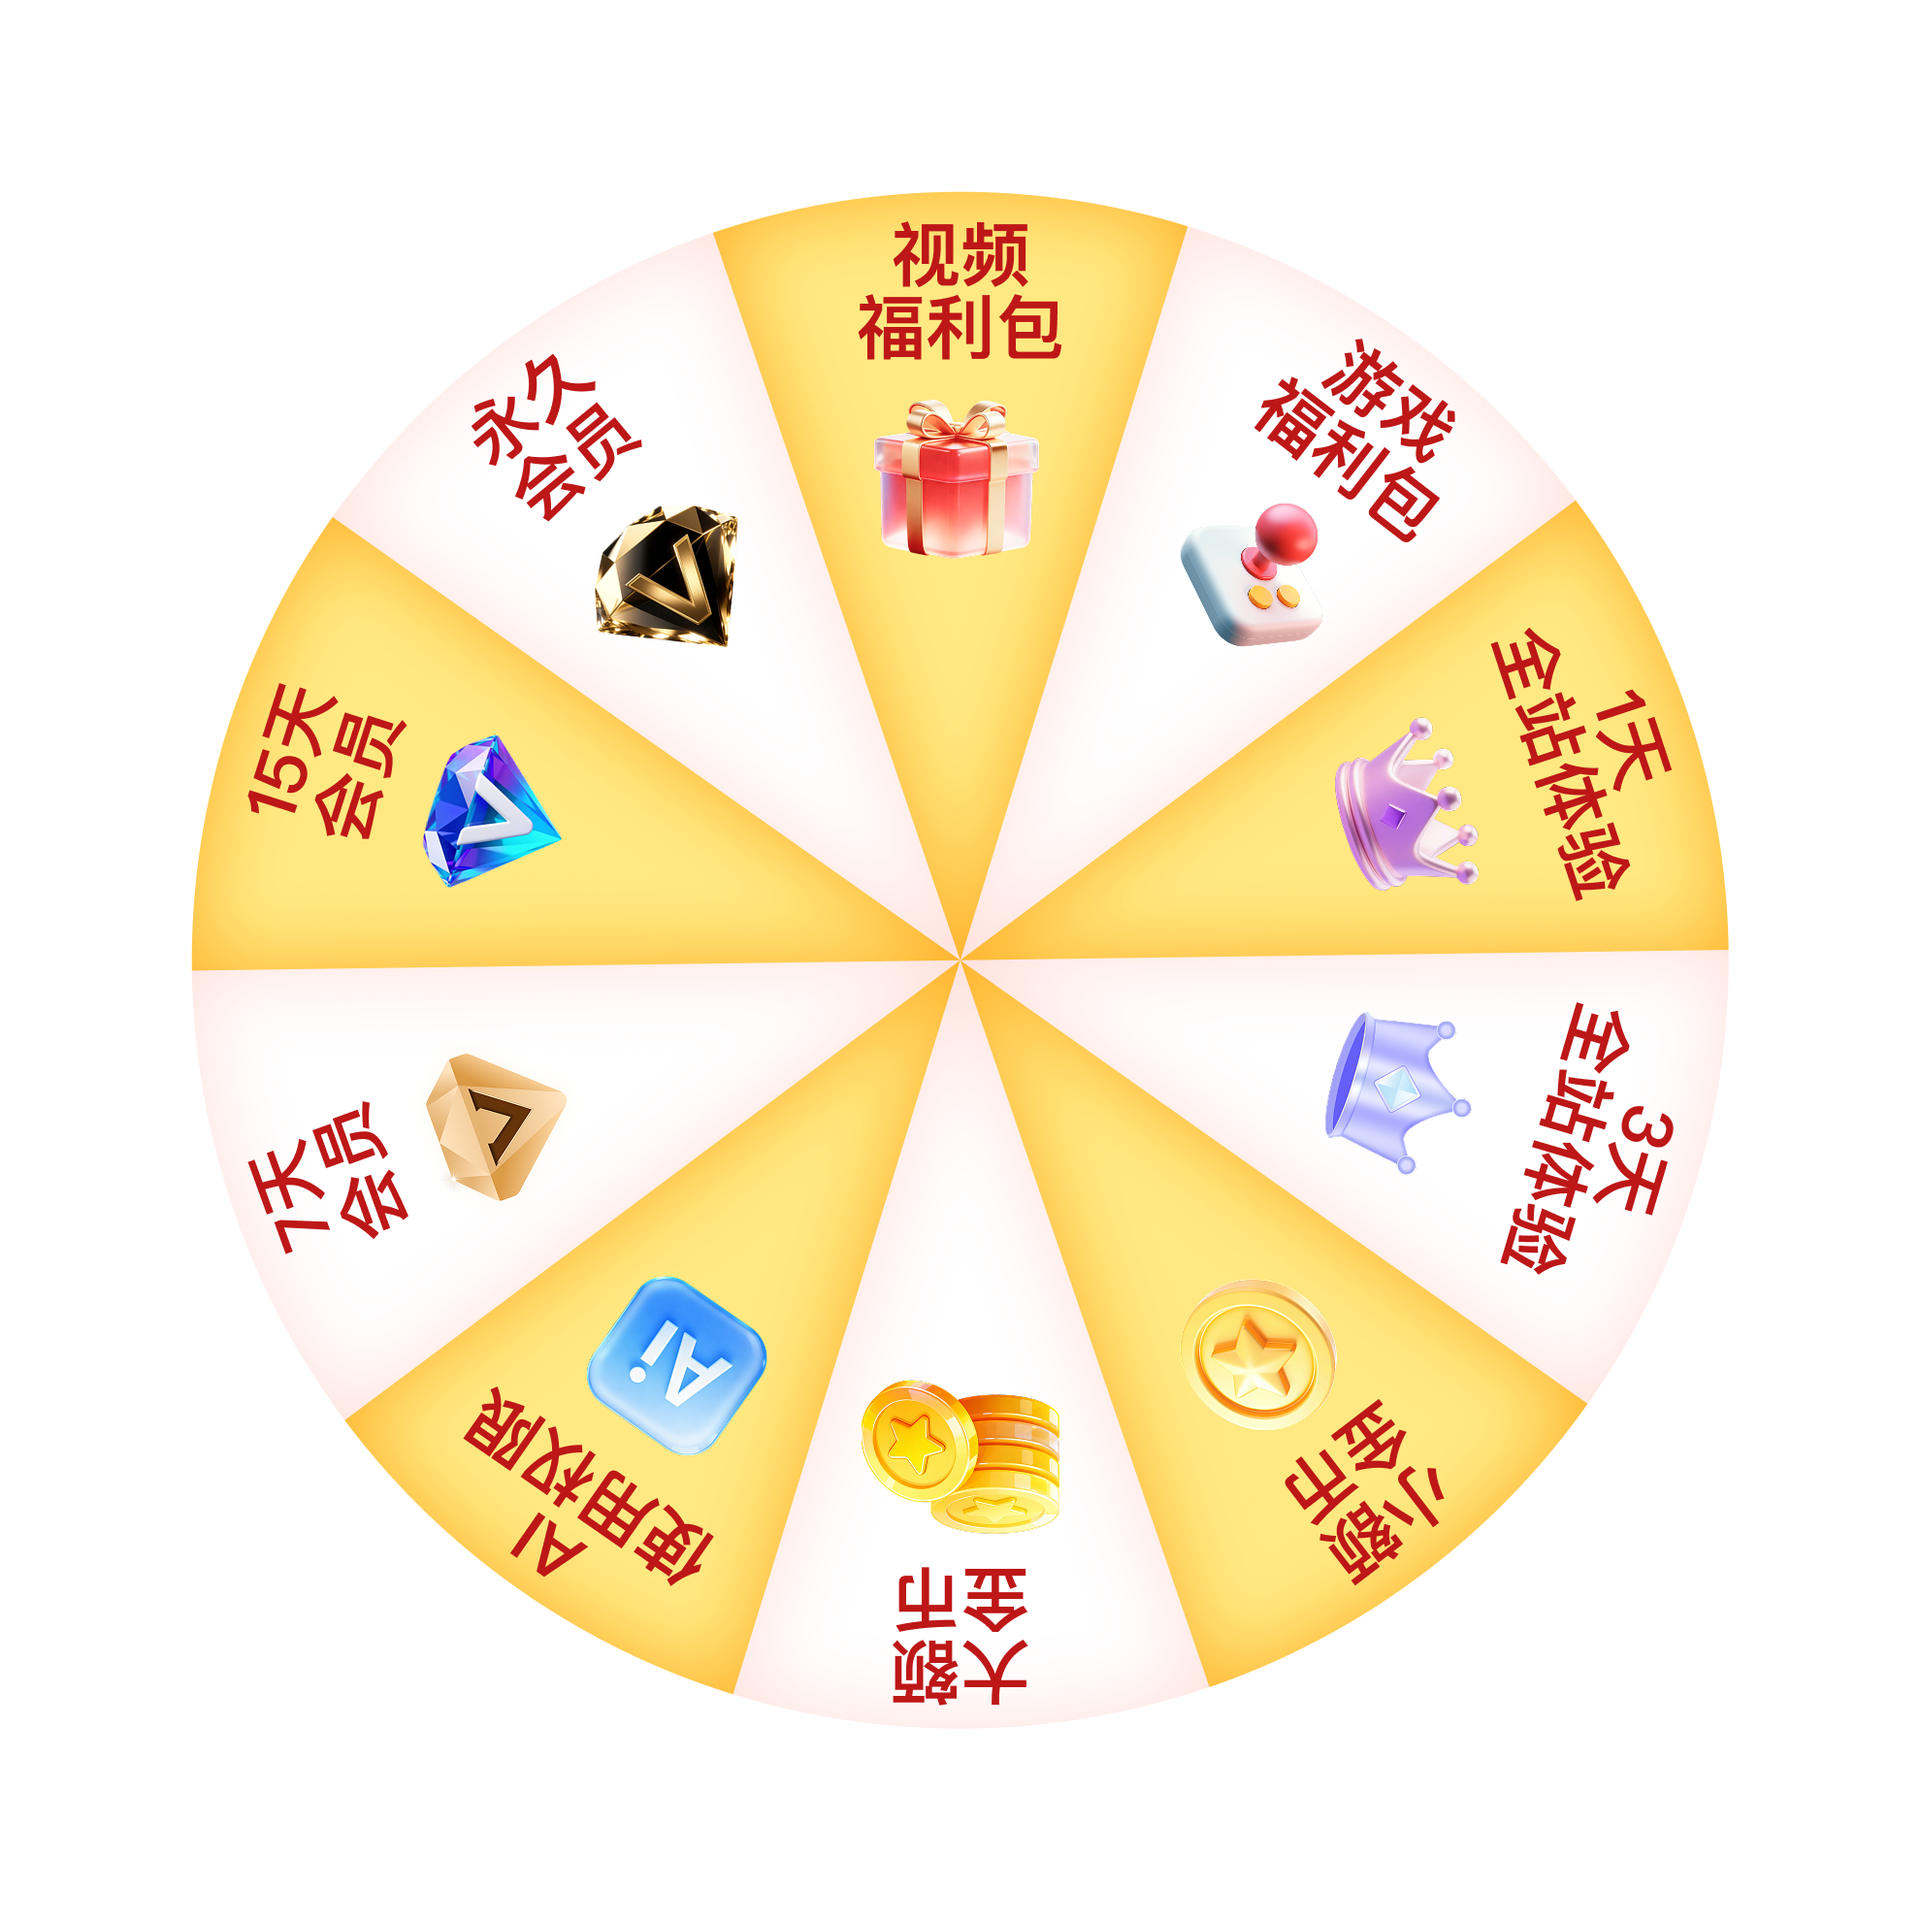
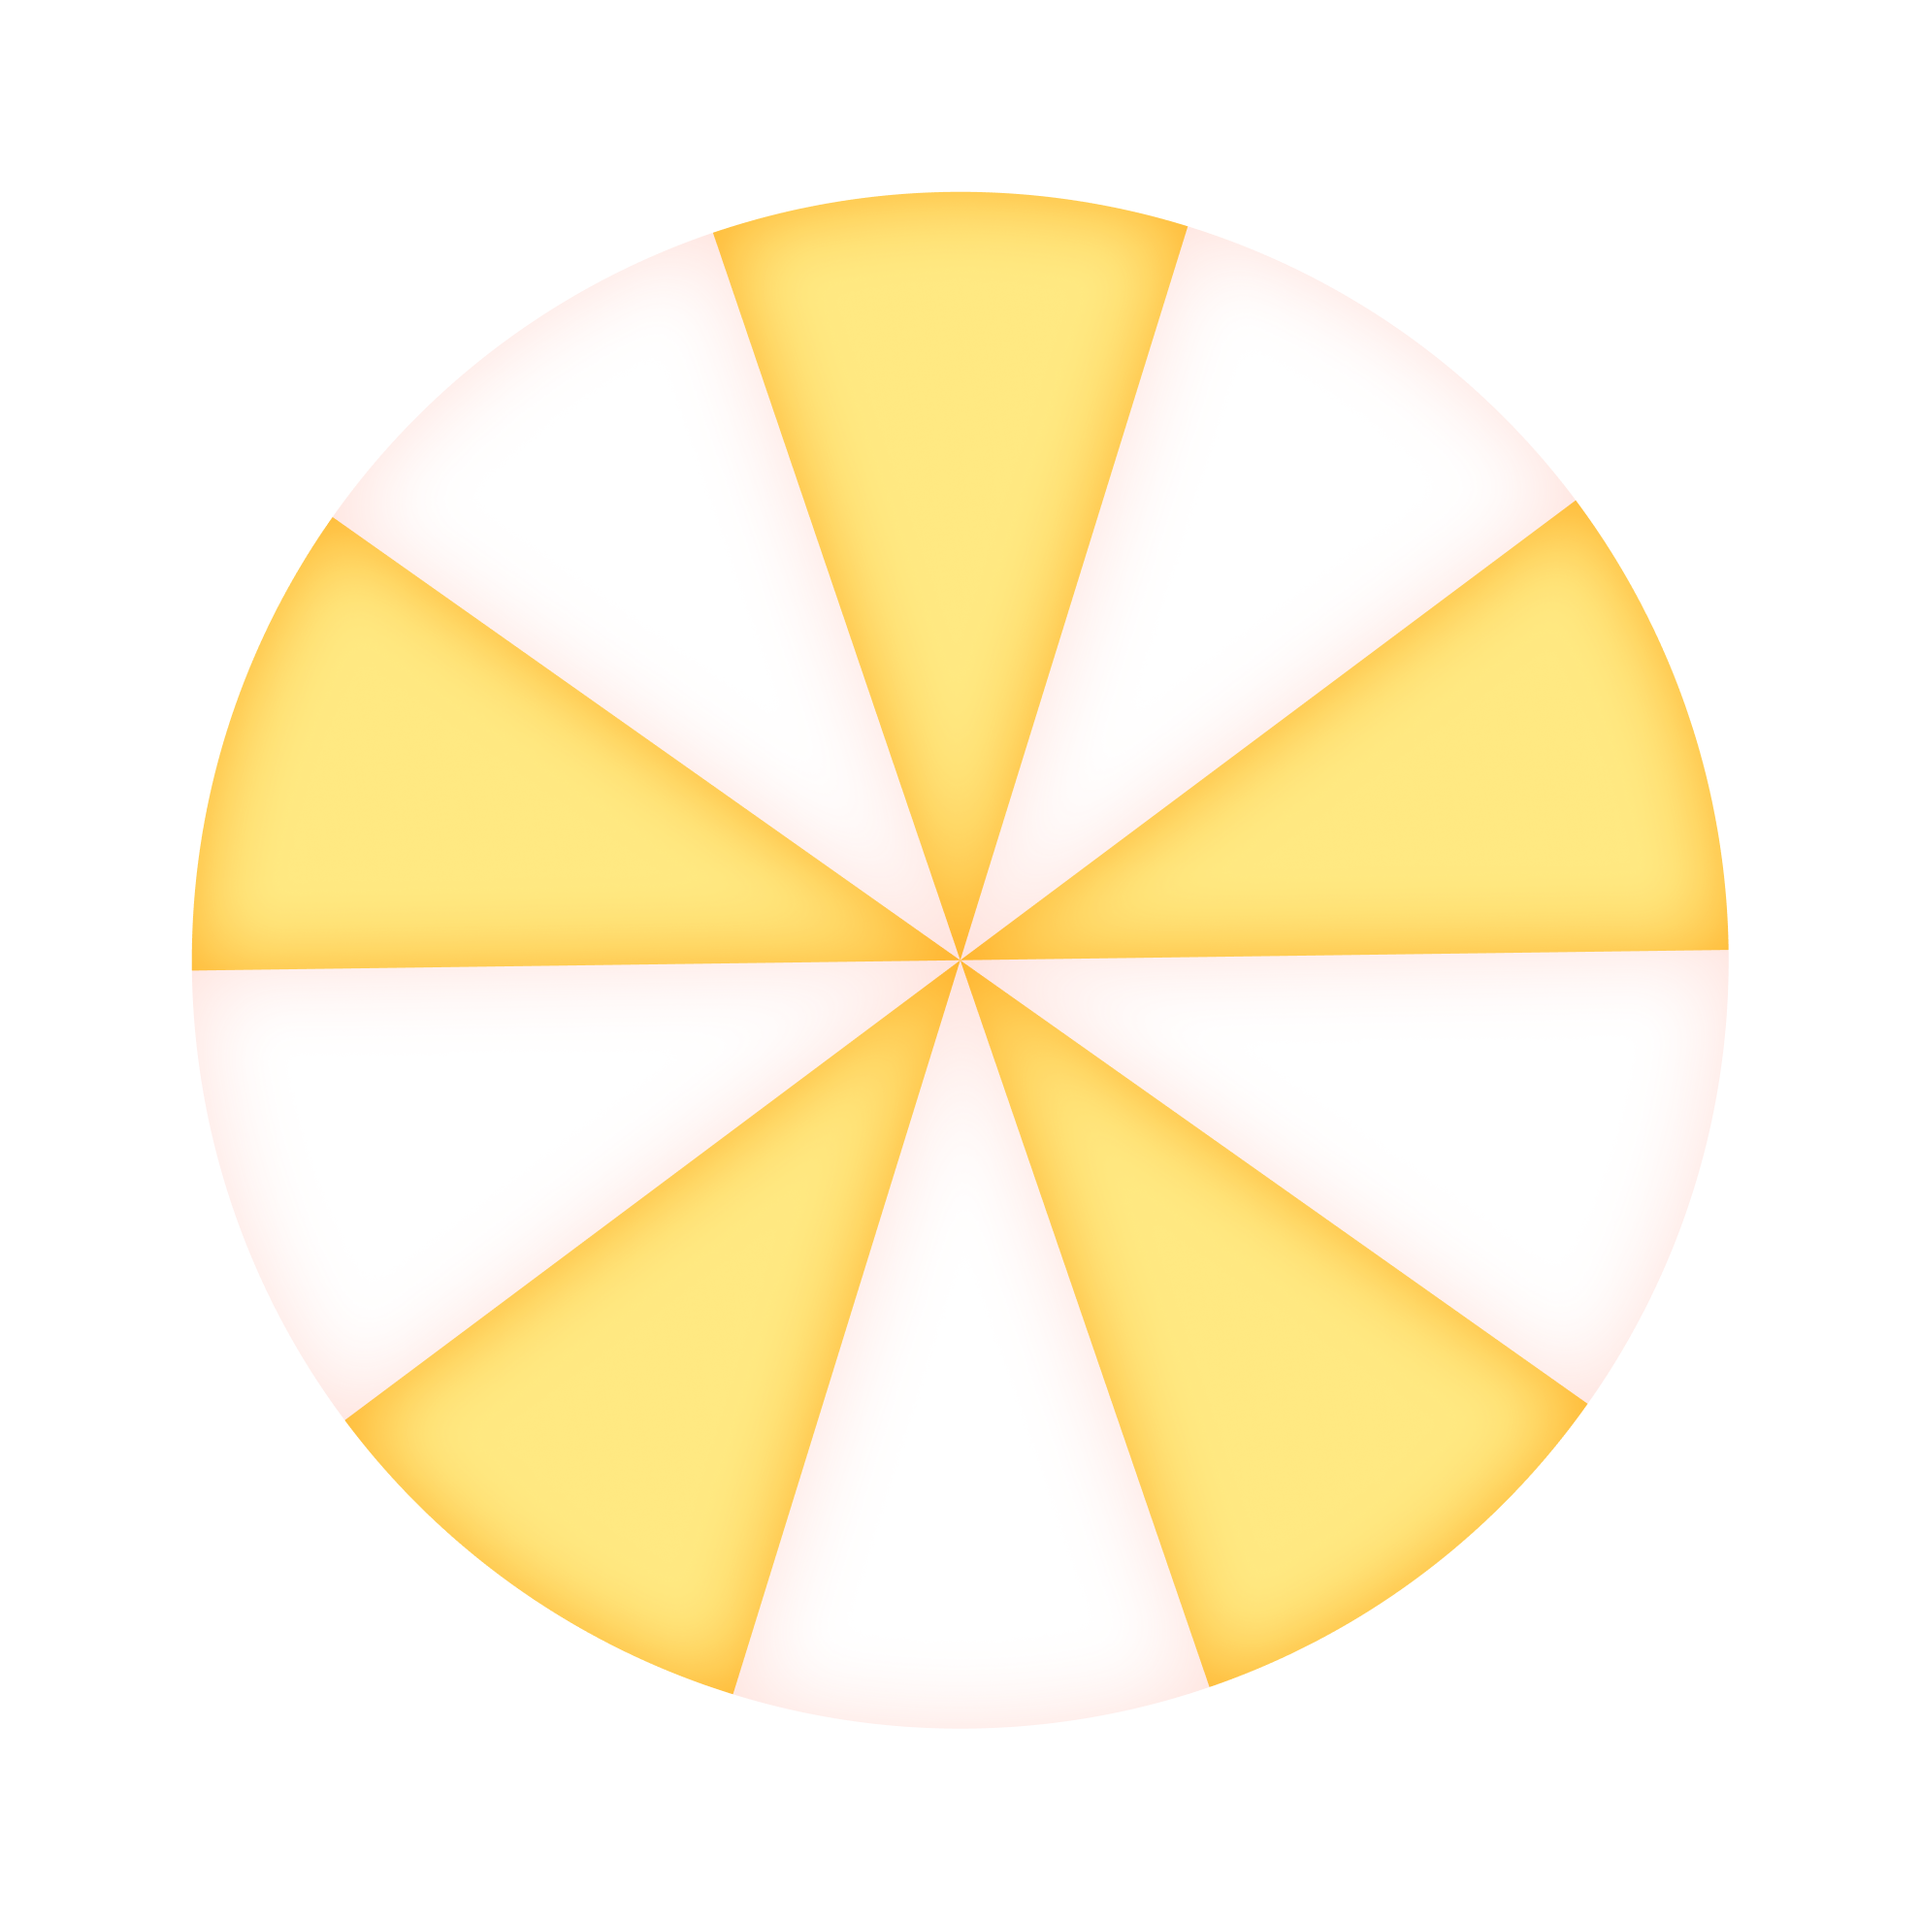
抽奖奖品布局优化

diff --git a/src/pages/checkin.vue b/src/pages/checkin.vue
@@ -176,13 +176,13 @@ async function fetchDrawConf() {
       my_points: number
       points_per_draw: number
     }
-    
+
     // 更新抽奖机会次数、积分、每次抽奖消耗的积分和奖品列表
     state.drawChances = data.my_chances || 0
     state.drawPoints = data.my_points || 0
     state.drawPointsPerDraw = data.points_per_draw || 50
     state.lotteryItems = data.items || []
-    
+
     console.log('抽奖配置:', data)
   } catch (error) {
     console.error('获取抽奖配置失败:', error)
@@ -228,17 +228,17 @@ async function handleLottery(type: 'chance' | 'points') {
       // 积分抽奖
       res = await __.$Api.TaskLottery.drawByPoints({})
     }
-    
+
     const data = res?.data as {
       prize: Record<string, any>
       msg: string
     }
-    
+
     // 根据返回的奖品信息显示对应的奖品
     // 暂时使用随机奖品，后续根据 prize 数据结构调整
     prizeKey.value = pickRandomPrize()
     showPrize.value = true
-    
+
     console.log('抽奖结果:', data)
   } catch (error) {
     console.error('抽奖失败:', error)
@@ -351,13 +351,13 @@ const prizePositions = computed(() => {
   const items = lotteryItems.value
   const count = items.length
   const radius = 130 // 距离中心的半径
-  
+
   return items.map((item, index) => {
     const angle = (index / count) * 360 - 90 // 从顶部开始
     const rad = (angle * Math.PI) / 180
     const x = Math.cos(rad) * radius
     const y = Math.sin(rad) * radius
-    
+
     return {
       ...item,
       x,
@@ -391,17 +391,14 @@ function getDayIcon(day: CheckinDay) {
           <div class="checkin-panel-line">明日签到可得：{{ state.tomorrowRewardText }}</div>
           <div class="checkin-panel-sub">
             <span>已连续签到：{{ state.signedDays }}天</span>
-            <button class="checkin-panel-link" type="button" @click="() => { showSignRecord = true; fetchSignRecords() }">签到记录</button>
+            <button class="checkin-panel-link" type="button"
+              @click="() => { showSignRecord = true; fetchSignRecords() }">签到记录</button>
           </div>
         </div>
 
         <button class="checkin-panel-btn" type="button">
-          <img
-            class="checkin-panel-btn-img"
-            :src="state.hasSignedToday ? img.btnSigned : img.btnSign"
-            alt="签到"
-            @click="onSignClick"
-          />
+          <img class="checkin-panel-btn-img" :src="state.hasSignedToday ? img.btnSigned : img.btnSign" alt="签到"
+            @click="onSignClick" />
         </button>
       </div>
       <!-- 30天日历（只做上半部分：到这里为止） -->
@@ -427,7 +424,8 @@ function getDayIcon(day: CheckinDay) {
         <div class="lottery-content-top">
           <div class="lottery-head">
             <div class="lottery-title">抽奖得好礼</div>
-            <button class="lottery-link" type="button" @click="() => { showLotteryRecord = true; fetchLotteryRecords() }">抽奖记录</button>
+            <button class="lottery-link" type="button"
+              @click="() => { showLotteryRecord = true; fetchLotteryRecords() }">抽奖记录</button>
           </div>
           <div class="lottery-meta">
             <div class="lottery-meta-item">我的抽奖机会：{{ state.drawChances }}</div>
@@ -438,18 +436,15 @@ function getDayIcon(day: CheckinDay) {
         <div class="wheel">
           <div class="wheel-stack">
             <div class="wheel-prizes">
-              <div
-                v-for="prize in prizePositions"
-                :key="prize.id"
-                class="wheel-prize-item"
-                :style="{
-                  transform: `translate(${prize.x}px, ${prize.y}px) rotate(${prize.angle + 90}deg)`
-                }"
-              >
-                <div class="wheel-prize-icon">
-                  <img v-if="prize.icon" :src="prize.icon" :alt="prize.title" />
-                </div>
+              <div v-for="prize in prizePositions" :key="prize.id" class="wheel-prize-item" :style="{
+                transform: `rotate(${prize.angle + 90}deg)`
+              }">
+
                 <div class="wheel-prize-title">{{ prize.title }}</div>
+                <!--  -->
+                <div class="wheel-prize-icon">
+                  <img v-if="prize.icon" :src="prize.icon" />
+                </div>
               </div>
             </div>
             <div class="wheel-disk">
@@ -465,7 +460,8 @@ function getDayIcon(day: CheckinDay) {
     </div>
     <div class="lottery-actions">
       <button class="lottery-btn lottery-btn-yellow" type="button" @click="onLotteryClick('chance')">抽奖机会</button>
-      <button class="lottery-btn lottery-btn-blue" type="button" @click="onLotteryClick('points')">{{ state.drawPointsPerDraw }}积分抽奖</button>
+      <button class="lottery-btn lottery-btn-blue" type="button" @click="onLotteryClick('points')">{{
+        state.drawPointsPerDraw }}积分抽奖</button>
     </div>
   </div>
 
@@ -868,29 +864,30 @@ function getDayIcon(day: CheckinDay) {
   width: 100%;
   height: 100%;
   display: flex;
-  align-items: center;
+  align-items: start;
   justify-content: center;
-  z-index: 3;
+  z-index: 10;
 }
 
 .wheel-prize-item {
   position: absolute;
   width: 60px;
-  height: 60px;
+  height: 50%;
   display: flex;
   flex-direction: column;
   align-items: center;
-  justify-content: center;
-  transform-origin: 0 0;
+  justify-content: end;
+  transform-origin: center bottom;
+  padding-bottom: 20%;
 }
 
 .wheel-prize-icon {
-  width: 40px;
-  height: 40px;
+  width: 33px;
+  height: 33px;
   display: flex;
   align-items: center;
   justify-content: center;
-  margin-bottom: 4px;
+  margin-top: 2.5px;
 }
 
 .wheel-prize-icon img {
@@ -1046,7 +1043,7 @@ function getDayIcon(day: CheckinDay) {
   aspect-ratio: 966 / 1182;
   border-radius: 22px;
   background-repeat: no-repeat;
-  background-position:right center;
+  background-position: right center;
   background-size: contain;
   box-sizing: border-box;
   position: relative;
@@ -1077,7 +1074,7 @@ function getDayIcon(day: CheckinDay) {
   display: block;
 }
 
-.qd-ok { 
+.qd-ok {
   width: 82%;
   height: 56px;
   border-radius: 10px;
